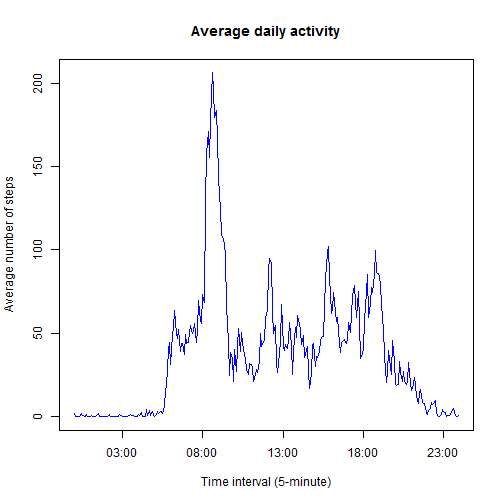
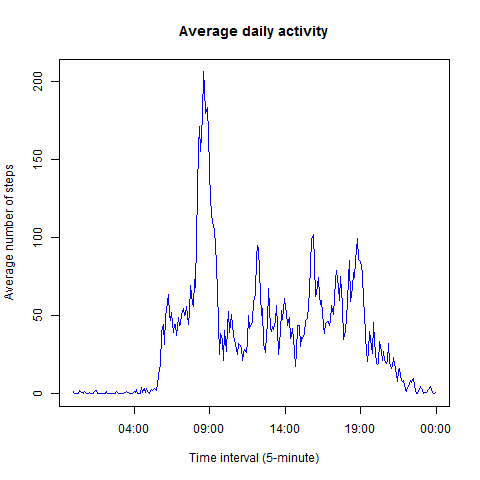
Changes .md file: folder figure and images

diff --git a/PA1_template.html b/PA1_template.html
@@ -205,7 +205,7 @@ hr {
 
 <h4>Author: &ldquo;Sergey Kosenko&rdquo;</h4>
 
-<h4>date: Tue Jul 14 22:28:00 2015</h4>
+<h4>date: Wed Jul 15 23:06:44 2015</h4>
 
 <h3>System information:</h3>
 
@@ -297,16 +297,17 @@ ASSIGNMENT:
     # 2.2.1 Finding a count of breaks for histogram
     break1 &lt;- round((max(steps_date$steps) - min(steps_date$steps))/1000, 0) + 2
     # 2.2.2 Make a histogram
+    png(&quot;./figure/2.1 steps_date 2.2 histogram 2.3 mean_median-1.png&quot;)
     hist(steps_date$steps, breaks = break1, main = &quot;Distribution of total daily steps&quot;,
     xlab = &quot;Total daily steps&quot;, ylab = &quot;Frequency&quot;)
-</code></pre>
+    dev.off()
 
[1 lines of base64/hex data omitted]
-
-<pre><code class="r">#2.3 Calculate and report the mean and median total number of steps taken per day
+#2.3 Calculate and report the mean and median total number of steps taken per day
     mean_steps &lt;- mean(steps_date$steps)        # [1] 10766.19
     median_steps &lt;- median(steps_date$steps)    # [1] 10765
 </code></pre>
+
[1 lines of base64/hex data omitted]
 
 <pre><code> Report:   
  Mean total number of steps taken per day: 10766.19  
@@ -336,11 +337,13 @@ ASSIGNMENT:
     # 3.1.3 Convert &quot;4 digits data&quot; to datetime data 
     steps_mean5$interval &lt;- strptime(steps_mean5$interval, format=&quot;%H%M&quot;)
     # Make a plot:
+    png(&quot;./figure/3.1 time series plot-1.png&quot;)
     plot(steps_mean5$interval, steps_mean5$steps, type = &quot;l&quot;, col = &quot;blue&quot;, 
     main = &quot;Average daily activity&quot;, xlab = &quot;Time interval (5-minute)&quot;, ylab = &quot;Average number of steps&quot;)
+    dev.off()
 </code></pre>
 
[2 lines of base64/hex data omitted]
 
 <pre><code class="r">     # 3.2 Which 5-minute interval, on average across all the days in the dataset, 
      # contains the maximum number of steps?
@@ -375,7 +378,7 @@ ASSIGNMENT:
 <pre><code> REPORT: 2304 is total number of rows with NAs.
 </code></pre>
 
-<pre><code class="r">     # 4.2 Devise a strategy for filling in all of the missing values in the dataset. 
+<pre><code class="r">    # 4.2 Devise a strategy for filling in all of the missing values in the dataset. 
     # My strategy: 
     # 1. Calculate a mean value for 5-minute intervals across all the days in the dataset
     # 2. Fields with NA will be filled a mean data from corresponding 5-minute interval
@@ -397,13 +400,11 @@ ASSIGNMENT:
     # 4.4.2 Finding a count of breaks for histogram
      break2 &lt;- round((max(steps_date2$steps) - min(steps_date2$steps))/1000, 0) + 2
     # 4.4.3 Make a histogram
+     png(&quot;./figure/4.4 histogram 4.5 mean median-1.png&quot;)
      hist(steps_date2$steps, breaks = break2, main = &quot;Distribution of total daily steps&quot;, 
      xlab = &quot;Total daily steps&quot;, ylab = &quot;Frequency&quot;)
-</code></pre>
-
[1 lines of base64/hex data omitted]
-
-<pre><code class="r">     # 4.5 Calculate and report the mean and median total number of steps taken per day.
+     dev.off()
+    # 4.5 Calculate and report the mean and median total number of steps taken per day.
     mean_steps2 &lt;- mean(steps_date2$steps)      # [1] 10766.19
     median_steps2 &lt;- median(steps_date2$steps)  # [1] 10766.19
     # create a table with mean and median data for convenient analysis:
@@ -412,10 +413,7 @@ ASSIGNMENT:
     total
 </code></pre>
 
-<pre><code>##              Mean Median
-## Ignoring NA 10766  10765
-## Imputing NA 10766  10766
-</code></pre>
[1 lines of base64/hex data omitted]
 
 <pre><code> REPORT: Imputing NA to mean value in new dataset don&#39;t changed mean value in new dataset
  and practically don&#39;t affected on median value in new dataset.
@@ -439,11 +437,14 @@ ASSIGNMENT:
      # 5.2 Make a panel plot containing a time series plot (i.e. type = &quot;l&quot;) of the 5-minute interval (x-axis)
      # and the average number of steps taken, averaged across all weekday days or weekend days (y-axis).
     steps_date3 &lt;- aggregate(steps ~ dayweek + interval, data = fill_data, FUN = &quot;mean&quot;)
-    xyplot(steps ~ interval | dayweek, data = steps_date3, layout = c(1, 2), type = &quot;l&quot;,
+    png(&quot;./figure/5.1 factor variables 5.2 panel plot-1.png&quot;)
+    panelplot &lt;- xyplot(steps ~ interval | dayweek, data = steps_date3, layout = c(1, 2), type = &quot;l&quot;,
     xlab = &quot;Interval&quot;, ylab = &quot;Number of steps&quot;) ## Plot with 2 panels
+    print(panelplot)
+    dev.off()
 </code></pre>
 
[2 lines of base64/hex data omitted]
 
 <pre><code>Assignment finished.
 </code></pre>
